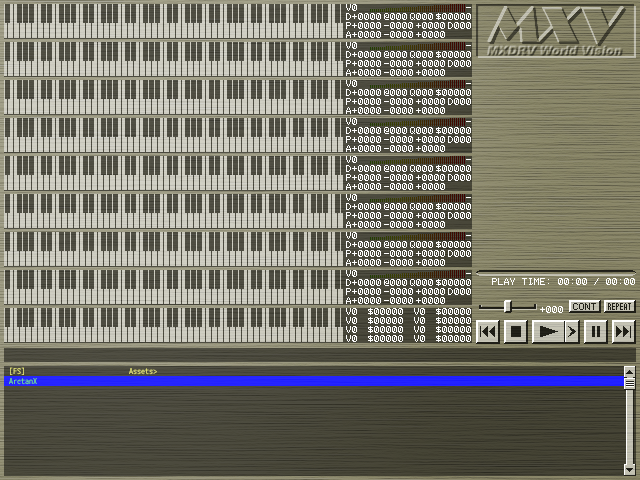
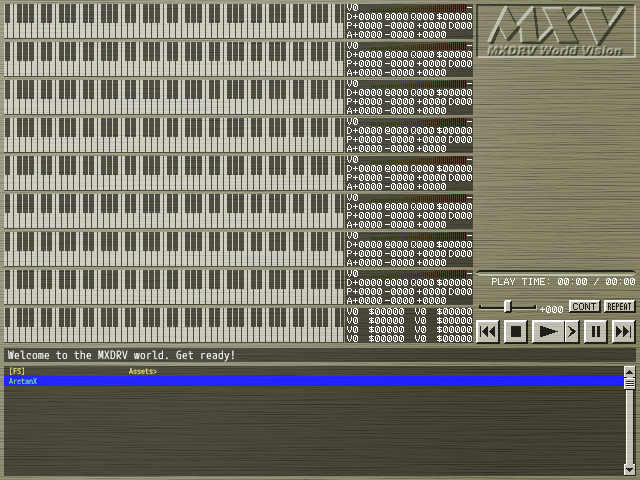
プログレスバーの当たり判定が細すぎて指で動かしにくかったので、調整

Changed region(s): [[0.5312, 0.0, 0.75, 0.7188], [0.0, 0.7188, 0.375, 0.75]]

diff --git a/skineditor/SkinEditor/Model/Render/DrawScreenPort.cs b/skineditor/SkinEditor/Model/Render/DrawScreenPort.cs
@@ -196,7 +196,7 @@ public sealed class DrawScreenPort
         }
 
         // 組み立て用のバッファ（8bpp。パレットは素材から引き継ぐ）
-        _progressBar = CreateScratch(_skin.progW, _skin.progH, _progressBarBase);
+        _progressBar = CreateScratch(_skin.progW, _skin.ProgBarHeight(), _progressBarBase);
         _totalVolBar = CreateScratch(_skin.volW, _skin.volH, _totalVolBarBase);
         _scrollBar = CreateScratch(_skin.scrollW, _skin.scrollH, _scrollBarBase);
 
@@ -932,7 +932,8 @@ public sealed class DrawScreenPort
         // バーは 左端 / 中央の繰り返し / 右端 の 3 つで敷く（音量バーと同じ。
         // つまみが無いだけ）。進んだ部分 [0,len) は素材の下段、残りは上段。
         // 下段は同じ矩形をその高さぶん下へずらした位置。
-        Blitter.Fill(_progressBar, 0, 0, _skin.progW, _skin.progH, 0, 0, 0, 100);
+        int barH = _skin.ProgBarHeight();
+        Blitter.Fill(_progressBar, 0, 0, _skin.progW, barH, 0, 0, 0, 100);
         var left = _skin.progSrcBarLeft;
         var right = _skin.progSrcBarRight;
         var bar = _skin.progSrcBar;
@@ -950,8 +951,11 @@ public sealed class DrawScreenPort
             }
             PutBarPiece(right, _skin.progW - right.W, right.W, xFrom, xTo, played ? right.H : 0);
         }
-        Blitter.CopyComposite(_screen, _skin.progX, _skin.progY, _skin.progW, _skin.progH,
-            _progressBar, 0, 0, _back, _skin.progX, _skin.progY, Blend.Mul);
+        // 素材は Rect の左上から ProgressPos だけずらした位置に置く（本体と同じ）。
+        int bx = _skin.progX + _skin.progPos[0];
+        int by = _skin.progY + _skin.progPos[1];
+        Blitter.CopyComposite(_screen, bx, by, _skin.progW, barH,
+            _progressBar, 0, 0, _back, bx, by, Blend.Mul);
 
         int nowSec = (int)(nowTimeMs / 1000);
         int t = Math.Min(nowSec, 99 * 60 + 59);

diff --git a/src/drawscreen.cpp b/src/drawscreen.cpp
@@ -312,7 +312,7 @@ bool DrawScreen::LoadAssets(std::string *err) {
 	}
 
 	// 組み立て用のバッファ
-	if (!progressBar_.Create(layout_.progW, layout_.progH, 8)) {
+	if (!progressBar_.Create(layout_.progW, layout_.progBarHeight(), 8)) {
 		*err = Msg("Error.ProgressBuffer");
 		return false;
 	}
@@ -1461,7 +1461,8 @@ void DrawScreen::PutProgressBar(uint32_t nowTimeMs, uint32_t playTimeMs, bool re
 		// バーは 左端 / 中央の繰り返し / 右端 の 3 つで敷く（音量バーと同じ。
 		// つまみが無いだけ）。進んだ部分 [0,len) は素材の下段、残りは上段。
 		// 下段は同じ矩形をその高さぶん下へずらした位置。
-		BmpFill(&progressBar_, 0, 0, layout_.progW, layout_.progH, 0, 0, 0, 100);
+		const int barH = layout_.progBarHeight();
+		BmpFill(&progressBar_, 0, 0, layout_.progW, barH, 0, 0, 0, 100);
 		const Xywh &left = layout_.progSrcBarLeft;
 		const Xywh &right = layout_.progSrcBarRight;
 		const Xywh &bar = layout_.progSrcBar;
@@ -1483,8 +1484,11 @@ void DrawScreen::PutProgressBar(uint32_t nowTimeMs, uint32_t playTimeMs, bool re
 			PutBarPiece(&progressBar_, &progressBarBase_, right, layout_.progW - right.w, right.w,
 			            xFrom, xTo, played ? right.h : 0);
 		}
-		BmpCopyComposite(&screen_, layout_.progX, layout_.progY, layout_.progW, layout_.progH, &progressBar_, 0, 0, &back_,
-		                 layout_.progX, layout_.progY, kBlendMul);
+		// 素材は Rect の左上から ProgressPos だけずらした位置に置く。
+		const int bx = layout_.progX + layout_.progPos[0];
+		const int by = layout_.progY + layout_.progPos[1];
+		BmpCopyComposite(&screen_, bx, by, layout_.progW, barH, &progressBar_, 0, 0, &back_, bx, by,
+		                 kBlendMul);
 	}
 
 	const int nowSec = (int)(nowTimeMs / 1000);

diff --git a/src/skin.h b/src/skin.h
@@ -249,6 +249,10 @@ struct Skin {
 	// TimePos に "x,y" で書く（2026-09-04 に TimeX / TimeY をまとめた）。
 	int progX, progY, progW, progH;
 	int progTimePos[2];
+	// バーの素材を置く位置（Rect の左上からの相対。[ProgressBar] ProgressPos。
+	// 2026-09-15）。幅は Rect の幅、高さは素材の帯の高さ (progBarHeight)。
+	// Rect は当たり判定と時刻表示を含む領域。
+	int progPos[2];
 	// 素材の中の位置と大きさ。音量バーと同じ分け方（つまみが無いだけ）で、
 	// 左端 / 中央 / 右端 の 3 つ（2026-09-12。それまでは Rect と同じ幅の
 	// 絵をそのまま貼っていた）。左端は Rect の左端、右端は Rect の右端に
@@ -369,6 +373,15 @@ struct Skin {
 	// （素材の溝の高さではない。溝は繰り返して敷くので伸び縮みする）。
 	int scrollBarMovement() const { return scrollGrooveH - scrollSrcThumb.h; }
 	int volBarMovement() const { return volW - volSrcThumb.w; }
+	// プログレスバーの帯の高さ（素材の 3 片のうち一番高いもの）。Rect の高さは
+	// 当たり判定と時刻表示を含む領域なので、帯を描く高さには使わない
+	// （Rect いっぱいに敷くと、帯の描き直しが時刻表示を消す。2026-09-15）。
+	int progBarHeight() const {
+		int h = progSrcBarLeft.h;
+		if (progSrcBar.h > h) h = progSrcBar.h;
+		if (progSrcBarRight.h > h) h = progSrcBarRight.h;
+		return (h > 0) ? h : progH;
+	}
 
 private:
 	// skinDir/layout.ini を今の値の上に重ねる。無ければ何もしない。

diff --git a/skineditor/SkinEditor/Model/SkinLayout.cs b/skineditor/SkinEditor/Model/SkinLayout.cs
@@ -121,6 +121,8 @@ public sealed class SkinLayout
     // TimePos は時刻表示の位置（Rect の左上からの相対）。
     public int progX = 476, progY = 270, progW = 160, progH = 6;
     public int[] progTimePos = { 16, 8 };
+    // バーの素材を置く位置（Rect の左上からの相対。skin.h の progPos）。
+    public int[] progPos = { 0, 0 };
     // 素材内の バー左端 / バー右端 / バー中央（上段 = 未再生。下段は同じ矩形を
     // その高さぶん下へずらした位置）。skin.h の progSrc*。
     public Xywh progSrcBarLeft = new(0, 0, 12, 6);
@@ -179,6 +181,12 @@ public sealed class SkinLayout
     // 敷くので、素材の高さではなく描く高さで決まる。
     public int ScrollBarMovement() => scrollGrooveH - scrollSrcThumb.H;
     public int VolBarMovement() => volW - volSrcThumb.W;
+    // プログレスバーの帯の高さ（素材の 3 片の一番高いもの。skin.h の progBarHeight）。
+    public int ProgBarHeight()
+    {
+        int h = Math.Max(progSrcBarLeft.H, Math.Max(progSrcBar.H, progSrcBarRight.H));
+        return h > 0 ? h : progH;
+    }
 
     // ---- キャンバスの大きさに合わせる（skin.cpp の Skin::PlacedFor） -------
     //

diff --git a/skineditor/SkinEditor/Model/PreviewRegions.cs b/skineditor/SkinEditor/Model/PreviewRegions.cs
@@ -53,6 +53,7 @@ public static class PreviewRegions
         public const string ScrollDownArrow = "scroll.down";
         public const string ProgressBar = "progressbar";
         public const string ProgressTime = "progressbar.time";
+        public const string ProgressImage = "progressbar.image";  // バーの素材（ProgressPos）
         public const string VolumeBar = "volumebar";
         public const string VolumeTime = "volumebar.time";
         public const string VolumeNob = "volumebar.nob";
@@ -267,6 +268,9 @@ public static class PreviewRegions
         r[Ids.ProgressBar] = new Rectangle(e.progX, e.progY, e.progW, e.progH);
         r[Ids.ProgressTime] = new Rectangle(e.progX + e.progTimePos[0], e.progY + e.progTimePos[1],
             TextWidth(ProgressTimeDigits, e.miniFontW, glyphW), glyphH);
+        // バーの素材。幅は Rect の幅、高さは素材の帯（上段）の高さ。
+        r[Ids.ProgressImage] = new Rectangle(e.progX + e.progPos[0], e.progY + e.progPos[1],
+            Math.Max(1, e.progW), Math.Max(1, e.ProgBarHeight()));
 
         r[Ids.VolumeBar] = new Rectangle(e.volX, e.volY, e.volW, e.volH);
         r[Ids.VolumeTime] = new Rectangle(e.volX + e.volVolumePos[0], e.volY + e.volVolumePos[1],

diff --git a/skineditor/SkinEditor/Model/SkinLayoutIo.cs b/skineditor/SkinEditor/Model/SkinLayoutIo.cs
@@ -92,6 +92,7 @@ public static class SkinLayoutIo
             t.progX = r.X; t.progY = r.Y; t.progW = r.W; t.progH = r.H;
         }
         GetIntList(ini, "ProgressBar", "TimePos", t.progTimePos, 2);
+        GetIntList(ini, "ProgressBar", "ProgressPos", t.progPos, 2);
         GetXywh(ini, "ProgressBar", "SrcBarLeft", ref t.progSrcBarLeft);
         GetXywh(ini, "ProgressBar", "SrcBarRight", ref t.progSrcBarRight);
         GetXywh(ini, "ProgressBar", "SrcBar", ref t.progSrcBar);
@@ -197,6 +198,7 @@ public static class SkinLayoutIo
 
         ini.SetString("ProgressBar", "Rect", $"{t.progX},{t.progY},{t.progW},{t.progH}");
         ini.SetString("ProgressBar", "TimePos", Join(t.progTimePos));
+        ini.SetString("ProgressBar", "ProgressPos", Join(t.progPos));
         ini.SetString("ProgressBar", "SrcBarLeft", t.progSrcBarLeft.ToString());
         ini.SetString("ProgressBar", "SrcBarRight", t.progSrcBarRight.ToString());
         ini.SetString("ProgressBar", "SrcBar", t.progSrcBar.ToString());

diff --git a/skineditor/SkinEditor.Tests/SkinDocumentTests.cs b/skineditor/SkinEditor.Tests/SkinDocumentTests.cs
@@ -89,7 +89,7 @@ public class SkinDocumentTests
         var e = SkinDocument.Open(root, "Phone").Effective;
 
         // 使う 8 個のボタンを覆う大きさが Rect の w,h になっている。
-        Assert.Equal((168, 348, 304, 82), (e.playKeyX, e.playKeyY, e.playKeyW, e.playKeyH));
+        Assert.Equal((169, 348, 304, 82), (e.playKeyX, e.playKeyY, e.playKeyW, e.playKeyH));
         int coverW = 0, coverH = 0;
         for (int i = 0; i < e.numPlayKeys; i++)
         {
@@ -98,7 +98,7 @@ public class SkinDocumentTests
         }
         Assert.Equal((coverW, coverH), (e.playKeyW, e.playKeyH));
 
-        Assert.Equal((344, 4, 128, 35), (e.statusX, e.statusY, e.statusW, e.statusH));
+        Assert.Equal((345, 4, 128, 35), (e.statusX, e.statusY, e.statusW, e.statusH));
     }
 
     // [ProgressBar] / [VolumeBar] の TimePos（2026-09-04 に TimeX / TimeY を

diff --git a/skineditor/SkinEditor/Model/LayoutFieldSchema.cs b/skineditor/SkinEditor/Model/LayoutFieldSchema.cs
@@ -179,6 +179,9 @@ public static class LayoutFieldSchema
                 ComponentMin: RectMin, ComponentMax: RectMax),
             new("ProgressBar", "TimePos", "時刻表示位置", FieldKind.IntList,
                 e => SkinLayoutIo.Join(e.progTimePos), Suffix: "(x,y)"),
+            // バーの素材を置く位置（Rect の左上からの相対）。
+            new("ProgressBar", "ProgressPos", "位置", FieldKind.IntList,
+                e => SkinLayoutIo.Join(e.progPos), Suffix: "(x,y)"),
             new("ProgressBar", "SrcBarLeft", "素材内: バー左端", FieldKind.Xywh,
                 e => e.progSrcBarLeft.ToString(), Suffix: "(x,y,w,h)",
                 ComponentMin: SrcMin, ComponentMax: SrcMax, SizeBoundRole: BitmapRole.ProgressBar),

diff --git a/skineditor/SkinEditor/Model/PreviewBinding.cs b/skineditor/SkinEditor/Model/PreviewBinding.cs
@@ -185,6 +185,9 @@ public static class PreviewBindings
                     "Rect" => new PreviewBinding(PreviewRegions.Ids.ProgressBar, 20, PreviewDrag.Rect),
                     "TimePos" => new PreviewBinding(PreviewRegions.Ids.ProgressTime, 21,
                         PreviewDrag.Xy, PreviewRegions.Ids.ProgressBar),
+                    // バーの素材の位置。矩形の左上からの相対。
+                    "ProgressPos" => new PreviewBinding(PreviewRegions.Ids.ProgressImage, 22,
+                        PreviewDrag.Xy, PreviewRegions.Ids.ProgressBar),
                     _ => new PreviewBinding(PreviewRegions.Ids.ProgressBar),
                 };
 

diff --git a/src/skin.cpp b/src/skin.cpp
@@ -303,6 +303,8 @@ Skin::Skin() {
 	progH = 6;
 	progTimePos[0] = 16;
 	progTimePos[1] = 8;
+	progPos[0] = 0;
+	progPos[1] = 0;
 	{
 		// 同梱素材の並び: 左端 / 右端 / 中央（残り）。上段が未再生。
 		const Xywh left = { 0, 0, 12, 6 };
@@ -529,6 +531,7 @@ void Skin::ApplyLayout(const std::string &skinDir) {
 		progH = r.h;
 	}
 	GetIntList(ini, "ProgressBar", "TimePos", progTimePos, 2);
+	GetIntList(ini, "ProgressBar", "ProgressPos", progPos, 2);
 	GetXywh(ini, "ProgressBar", "SrcBarLeft", &progSrcBarLeft);
 	GetXywh(ini, "ProgressBar", "SrcBarRight", &progSrcBarRight);
 	GetXywh(ini, "ProgressBar", "SrcBar", &progSrcBar);

diff --git a/skineditor/SkinEditor/UI/TabLayout.cs b/skineditor/SkinEditor/UI/TabLayout.cs
@@ -272,6 +272,7 @@ public static class TabLayout
         {
             Bitmap(BitmapRole.ProgressBar),
             Field("ProgressBar", "Rect"),
+            Field("ProgressBar", "ProgressPos"),
             Field("ProgressBar", "TimePos"),
             Field("ProgressBar", "SrcBarLeft"),
             Field("ProgressBar", "SrcBarRight"),

diff --git a/memo/readme.md b/memo/readme.md
@@ -485,7 +485,9 @@ skin/<名前>/
 左右に動く。同梱素材は左から つまみ / 左端 / 右端 / 中央 の順に並べてあり、
 前の 3 つは同じ大きさにしてある。
 
-プログレスバーも同じで、つまみが無いだけ（`[ProgressBar]` の `SrcBarLeft` /
+プログレスバーも同じで、つまみが無いだけ。バーの素材を置く位置は `[ProgressBar]
+ProgressPos`（Rect の左上からの相対。2026-09-15）で、当たり判定は Rect のまま
+（`[ProgressBar]` の `SrcBarLeft` /
 `SrcBarRight` / `SrcBar`）。矩形は**上段（未再生）**の位置で、下段（再生済み）は
 同じ矩形をその高さぶん下へずらした位置にある。再生位置より左は下段、右は上段から
 取る。同梱素材は左から 左端 / 右端 / 中央 の順。
